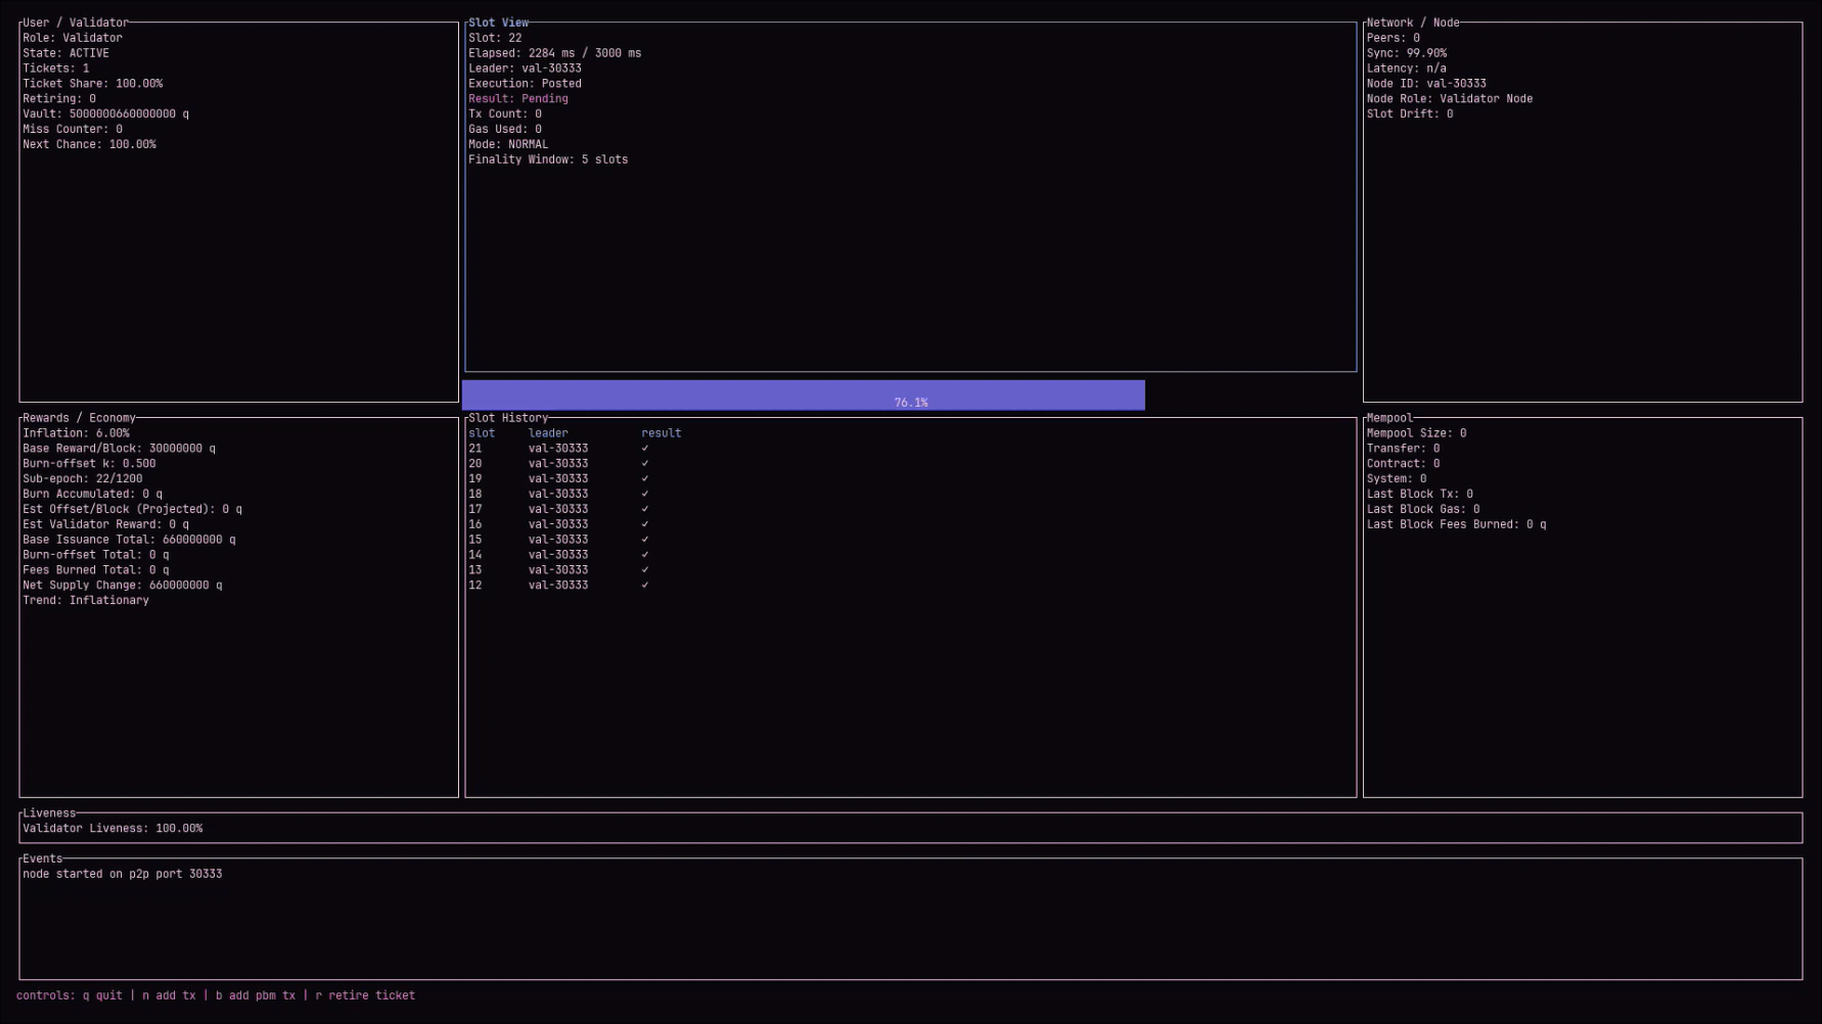
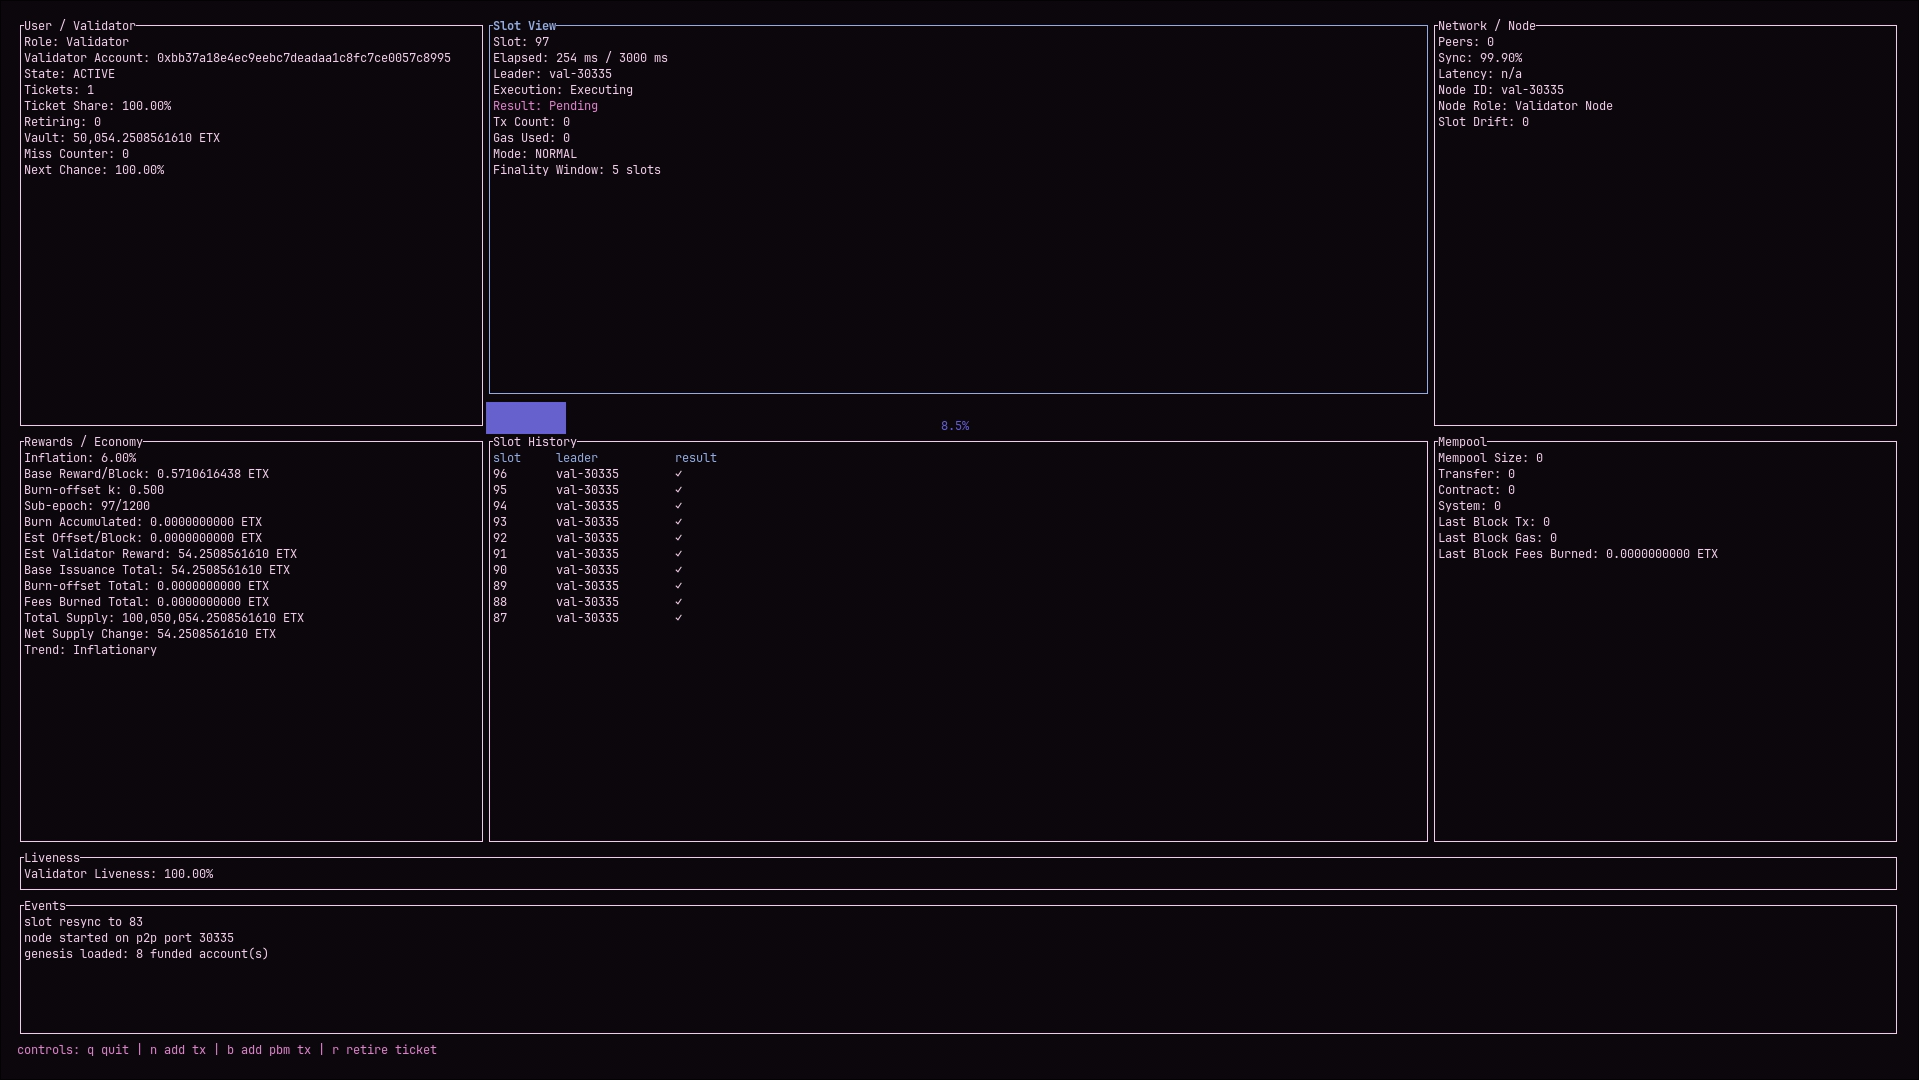
Implement inflation-based rewards and validator vault flows

diff --git a/src/ui.rs b/src/ui.rs
@@ -98,7 +98,7 @@ fn render_validator_panel(frame: &mut Frame, app: &Protocol, area: ratatui::layo
         Line::from(format!("Tickets: {}", ticket_count)),
         Line::from(format!("Ticket Share: {:.2}%", ticket_pct)),
         Line::from(format!("Retiring: {}", retiring_count)),
-        Line::from(format!("Vault: {} q", vault)),
+        Line::from(format!("Vault: {}", format_etx(vault))),
         Line::from(format!("Miss Counter: {}", miss)),
         Line::from(format!("Next Chance: {:.2}%", ticket_pct)),
     ];
@@ -232,22 +232,14 @@ fn render_rewards_panel(frame: &mut Frame, app: &Protocol, area: ratatui::layout
             .iter()
             .filter(|p| p.as_ref().is_some_and(|x| x == id))
             .count() as u128;
-        est_offset_per_block * produced_by_local
+        app.base_reward_per_block_quarks()
+            .saturating_add(est_offset_per_block)
+            .saturating_mul(produced_by_local)
     } else {
         0
     };
     let net_supply = st.base_issuance_total + st.burn_offset_total;
-    let account_supply = st
-        .accounts
-        .values()
-        .filter_map(|a| a.balances.get(&0).copied())
-        .fold(0_u128, |acc, bal| acc.saturating_add(bal));
-    let vault_supply = st
-        .validators
-        .iter()
-        .map(|v| v.vault_quarks)
-        .fold(0_u128, |acc, bal| acc.saturating_add(bal));
-    let total_supply = account_supply.saturating_add(vault_supply);
+    let total_supply = app.total_supply_quarks();
     let trend = if st.fees_burned_total > net_supply {
         "Deflationary"
     } else {
@@ -256,18 +248,18 @@ fn render_rewards_panel(frame: &mut Frame, app: &Protocol, area: ratatui::layout
 
     frame.render_widget(
         Paragraph::new(vec![
-            Line::from(format!("Inflation: {:.2}%", st.annual_inflation_ppm as f64 / 10000.0)),
-            Line::from("Base Reward/Block: 30000000 q"),
+            Line::from(format!("Inflation: {:.2}%", st.annual_inflation_ppb as f64 / 10_000_000.0)),
+            Line::from(format!("Base Reward/Block: {}", format_etx(app.base_reward_per_block_quarks()))),
             Line::from(format!("Burn-offset k: {:.3}", st.burn_offset_k_permille as f64 / 1000.0)),
             Line::from(format!("Sub-epoch: {}/{}", sub_slot, SUB_EPOCH_SLOTS)),
-            Line::from(format!("Burn Accumulated: {} q", st.burn_this_sub_epoch)),
-            Line::from(format!("Est Offset/Block (Projected): {} q", est_offset_per_block)),
-            Line::from(format!("Est Validator Reward: {} q", local_est_reward)),
-            Line::from(format!("Base Issuance Total: {} q", st.base_issuance_total)),
-            Line::from(format!("Burn-offset Total: {} q", st.burn_offset_total)),
-            Line::from(format!("Fees Burned Total: {} q", st.fees_burned_total)),
+            Line::from(format!("Burn Accumulated: {}", format_etx(st.burn_this_sub_epoch))),
+            Line::from(format!("Est Offset/Block: {}", format_etx(est_offset_per_block))),
+            Line::from(format!("Est Validator Reward: {}", format_etx(local_est_reward))),
+            Line::from(format!("Base Issuance Total: {}", format_etx(st.base_issuance_total))),
+            Line::from(format!("Burn-offset Total: {}", format_etx(st.burn_offset_total))),
+            Line::from(format!("Fees Burned Total: {}", format_etx(st.fees_burned_total))),
             Line::from(format!("Total Supply: {}", format_etx(total_supply))),
-            Line::from(format!("Net Supply Change: {} q", net_supply.saturating_sub(st.fees_burned_total))),
+            Line::from(format!("Net Supply Change: {}", format_etx(net_supply.saturating_sub(st.fees_burned_total)))),
             Line::from(format!("Trend: {}", trend)),
         ])
         .block(Block::default().title("Rewards / Economy").borders(Borders::ALL))
@@ -320,7 +312,7 @@ fn render_mempool_panel(frame: &mut Frame, app: &Protocol, area: ratatui::layout
             Line::from(format!("System: {}", system)),
             Line::from(format!("Last Block Tx: {}", last_tx)),
             Line::from(format!("Last Block Gas: {}", last_gas)),
-            Line::from(format!("Last Block Fees Burned: {} q", last_fees)),
+            Line::from(format!("Last Block Fees Burned: {}", format_etx(last_fees as u128))),
         ])
         .block(Block::default().title("Mempool").borders(Borders::ALL))
         .wrap(Wrap { trim: true }),

diff --git a/src/app/accounts.rs b/src/app/accounts.rs
@@ -1,6 +1,35 @@
 use super::*;
 
 impl Protocol {
+    pub fn total_supply_quarks(&self) -> u128 {
+        let account_supply = self
+            .state
+            .accounts
+            .values()
+            .filter_map(|a| a.balances.get(&TOKEN_ETX_ID).copied())
+            .fold(0_u128, |acc, bal| acc.saturating_add(bal));
+        let vault_supply = self
+            .state
+            .validators
+            .iter()
+            .map(|v| v.vault_quarks)
+            .fold(0_u128, |acc, bal| acc.saturating_add(bal));
+
+        account_supply.saturating_add(vault_supply)
+    }
+
+    pub fn base_reward_per_block_quarks(&self) -> u128 {
+        self.state.base_reward_per_block_quarks
+    }
+
+    pub(super) fn recompute_base_reward_per_block(&mut self) {
+        self.state.base_reward_per_block_quarks = self
+            .total_supply_quarks()
+            .saturating_mul(self.state.annual_inflation_ppb as u128)
+            / INFLATION_RATE_DENOMINATOR
+            / SLOTS_PER_YEAR;
+    }
+
     pub(super) fn bootstrap_accounts(&mut self, genesis_path: &str) {
         let raw = match std::fs::read_to_string(genesis_path) {
             Ok(raw) => raw,
@@ -102,6 +131,14 @@ impl Protocol {
         }
         *bal -= amount;
         true
+    }
+
+    pub(super) fn validator_owner_account(&self, validator_id: &str) -> Option<String> {
+        self.state
+            .validators
+            .iter()
+            .find(|v| v.id == validator_id)
+            .and_then(|v| v.owner_account.clone())
     }
 
     pub(super) fn burn_and_mint_tickets(&mut self, validator_id: &str, count: u64) {

diff --git a/src/app/core.rs b/src/app/core.rs
@@ -17,7 +17,7 @@ impl Protocol {
                 id: id.clone(),
                 owner_account: local_validator_account.clone(),
                 state: ValidatorState::Active,
-                vault_quarks: 5_000_000_000_000_000,
+                vault_quarks: INITIAL_VALIDATOR_VAULT_QUARKS,
                 miss_counter: 0,
                 double_sign_offenses: 0,
                 blocks_this_sub_epoch: 0,
@@ -52,7 +52,8 @@ impl Protocol {
                 fees_burned_total: 0,
                 base_issuance_total: 0,
                 burn_offset_total: 0,
-                annual_inflation_ppm: 60_000,
+                annual_inflation_ppb: 60_000_000,
+                base_reward_per_block_quarks: 0,
                 burn_offset_k_permille: 500,
                 epoch_validator_blocks: 0,
                 epoch_total_slots: 0,
@@ -92,6 +93,7 @@ impl Protocol {
         this.state.current_leader = this.select_leader();
         this.state.exec_status = ExecStatus::Executing;
         this.bootstrap_accounts(&cfg.genesis_path);
+        this.recompute_base_reward_per_block();
         this.state.events.push_front(format!("node started on p2p port {}", cfg.p2p_port));
         Ok(this)
     }
@@ -300,13 +302,7 @@ impl Protocol {
                 count,
             } => {
                 let cost = TICKET_COST_QUARKS.saturating_mul(count as u128);
-                let Some(owner_account) = self
-                    .state
-                    .validators
-                    .iter()
-                    .find(|v| v.id == validator_id)
-                    .and_then(|v| v.owner_account.clone())
-                else {
+                let Some(owner_account) = self.validator_owner_account(&validator_id) else {
                     return json!({"ok": false, "error": "validator account not configured"});
                 };
                 if !self.debit_balance(&owner_account, TOKEN_ETX_ID, cost) {
@@ -319,14 +315,17 @@ impl Protocol {
                 validator_id,
                 amount_quarks,
             } => {
-                if !self.debit_balance(&validator_id, TOKEN_ETX_ID, amount_quarks) {
-                    return json!({"ok": false, "error": "insufficient wallet balance"});
+                let Some(owner_account) = self.validator_owner_account(&validator_id) else {
+                    return json!({"ok": false, "error": "validator account not configured"});
+                };
+                if !self.debit_balance(&owner_account, TOKEN_ETX_ID, amount_quarks) {
+                    return json!({"ok": false, "error": "insufficient validator account balance"});
                 }
                 if let Some(v) = self.state.validators.iter_mut().find(|v| v.id == validator_id) {
-                    v.vault_quarks += amount_quarks;
-                    json!({"ok": true, "vault_quarks": v.vault_quarks})
+                    v.vault_quarks = v.vault_quarks.saturating_add(amount_quarks);
+                    json!({"ok": true, "validator_id": validator_id, "from": owner_account, "vault_quarks": v.vault_quarks})
                 } else {
-                    self.credit_balance(&validator_id, TOKEN_ETX_ID, amount_quarks);
+                    self.credit_balance(&owner_account, TOKEN_ETX_ID, amount_quarks);
                     json!({"ok": false, "error": "validator not found"})
                 }
             }
@@ -334,6 +333,9 @@ impl Protocol {
                 validator_id,
                 amount_quarks,
             } => {
+                let Some(owner_account) = self.validator_owner_account(&validator_id) else {
+                    return json!({"ok": false, "error": "validator account not configured"});
+                };
                 if let Some(v) = self.state.validators.iter_mut().find(|v| v.id == validator_id) {
                     if v.vault_quarks < amount_quarks {
                         return json!({"ok": false, "error": "insufficient vault balance"});
@@ -341,8 +343,8 @@ impl Protocol {
                     v.vault_quarks -= amount_quarks;
                     let new_vault = v.vault_quarks;
                     let _ = v;
-                    self.credit_balance(&validator_id, TOKEN_ETX_ID, amount_quarks);
-                    json!({"ok": true, "vault_quarks": new_vault})
+                    self.credit_balance(&owner_account, TOKEN_ETX_ID, amount_quarks);
+                    json!({"ok": true, "validator_id": validator_id, "to": owner_account, "vault_quarks": new_vault})
                 } else {
                     json!({"ok": false, "error": "validator not found"})
                 }

diff --git a/src/app/consensus.rs b/src/app/consensus.rs
@@ -93,14 +93,15 @@ impl Protocol {
         }
         self.state.fees_burned_total += fees as u128;
         self.state.burn_this_sub_epoch += fees as u128;
+        let base_reward = self.base_reward_per_block_quarks();
         if let Some(v) = self.state.validators.iter_mut().find(|v| v.id == self.state.current_leader) {
             v.blocks_this_sub_epoch += 1;
             if v.miss_counter > 0 {
                 v.miss_counter -= 1;
             }
-            v.vault_quarks += 30_000_000;
+            v.vault_quarks = v.vault_quarks.saturating_add(base_reward);
+            self.state.base_issuance_total = self.state.base_issuance_total.saturating_add(base_reward);
         }
-        self.state.base_issuance_total += 30_000_000;
 
         if let Some(hash) = self.state.raw_tx_pending.pop_front()
             && let Some(rec) = self.state.raw_txs.get_mut(&hash)
@@ -169,8 +170,12 @@ impl Protocol {
                 .push_front(format!("sub-epoch transition {}", self.state.sub_epoch_index));
         }
         if self.state.slot > 0 && self.state.slot.is_multiple_of(SUB_EPOCH_SLOTS * EPOCH_SUB_EPOCHS) {
-            self.state.epoch_index += 1;
-            self.state.annual_inflation_ppm = (self.state.annual_inflation_ppm * 9 / 10).max(5_000);
+            let next_epoch = self.state.epoch_index + 1;
+            if next_epoch.is_multiple_of(EPOCHS_PER_YEAR) {
+                self.state.annual_inflation_ppb = (self.state.annual_inflation_ppb * 9 / 10).max(5_000_000);
+                self.recompute_base_reward_per_block();
+            }
+            self.state.epoch_index = next_epoch;
             self.finalize_retire_for_epoch(self.state.epoch_index);
             self.rotate_epoch_seed();
             self.process_epoch_validator_transitions();

diff --git a/src/app/mod.rs b/src/app/mod.rs
@@ -20,6 +20,10 @@ use crate::rpc::RpcRequest;
 const GENESIS_EPOCH_SEED: [u8; 32] = [0x45; 32];
 const TOKEN_ETX_ID: u64 = 0;
 const TICKET_COST_QUARKS: u128 = 10_000_000_000_000;
+const INITIAL_VALIDATOR_VAULT_QUARKS: u128 = 500_000_000_000_000;
+const INFLATION_RATE_DENOMINATOR: u128 = 1_000_000_000;
+const EPOCHS_PER_YEAR: u64 = 365;
+const SLOTS_PER_YEAR: u128 = 365 * 24 * 60 * 60 / (SLOT_MS as u128 / 1000);
 const WEI_PER_QUARK: u64 = 100_000_000;
 
 pub struct Protocol {

diff --git a/src/models.rs b/src/models.rs
@@ -132,7 +132,8 @@ pub struct ProtocolState {
     pub fees_burned_total: u128,
     pub base_issuance_total: u128,
     pub burn_offset_total: u128,
-    pub annual_inflation_ppm: u64,
+    pub annual_inflation_ppb: u64,
+    pub base_reward_per_block_quarks: u128,
     pub burn_offset_k_permille: u64,
     pub epoch_validator_blocks: u64,
     pub epoch_total_slots: u64,

diff --git a/src/app/network.rs b/src/app/network.rs
@@ -131,7 +131,7 @@ impl Protocol {
             id: id.to_string(),
             owner_account,
             state: ValidatorState::Active,
-            vault_quarks: 5_000_000_000_000_000,
+            vault_quarks: INITIAL_VALIDATOR_VAULT_QUARKS,
             miss_counter: 0,
             double_sign_offenses: 0,
             blocks_this_sub_epoch: 0,

diff --git a/README.md b/README.md
@@ -118,6 +118,7 @@ Validator startup behavior for this prototype:
 - Starting a validator node auto-registers one validator ID (`val-<p2p-port>`).
 - `--validator-account` binds an account address as the owner account for that validator.
 - `buy_ticket` takes `validator_id` and burns ETX from the validator's configured owner account.
+- `wallet_to_vault` and `vault_to_wallet` take `validator_id` and move ETX between the validator's configured owner account and vault.
 - It is auto-provisioned with:
   - 1 ticket
   - 50,000 ETX vault (stored in quarks internally)